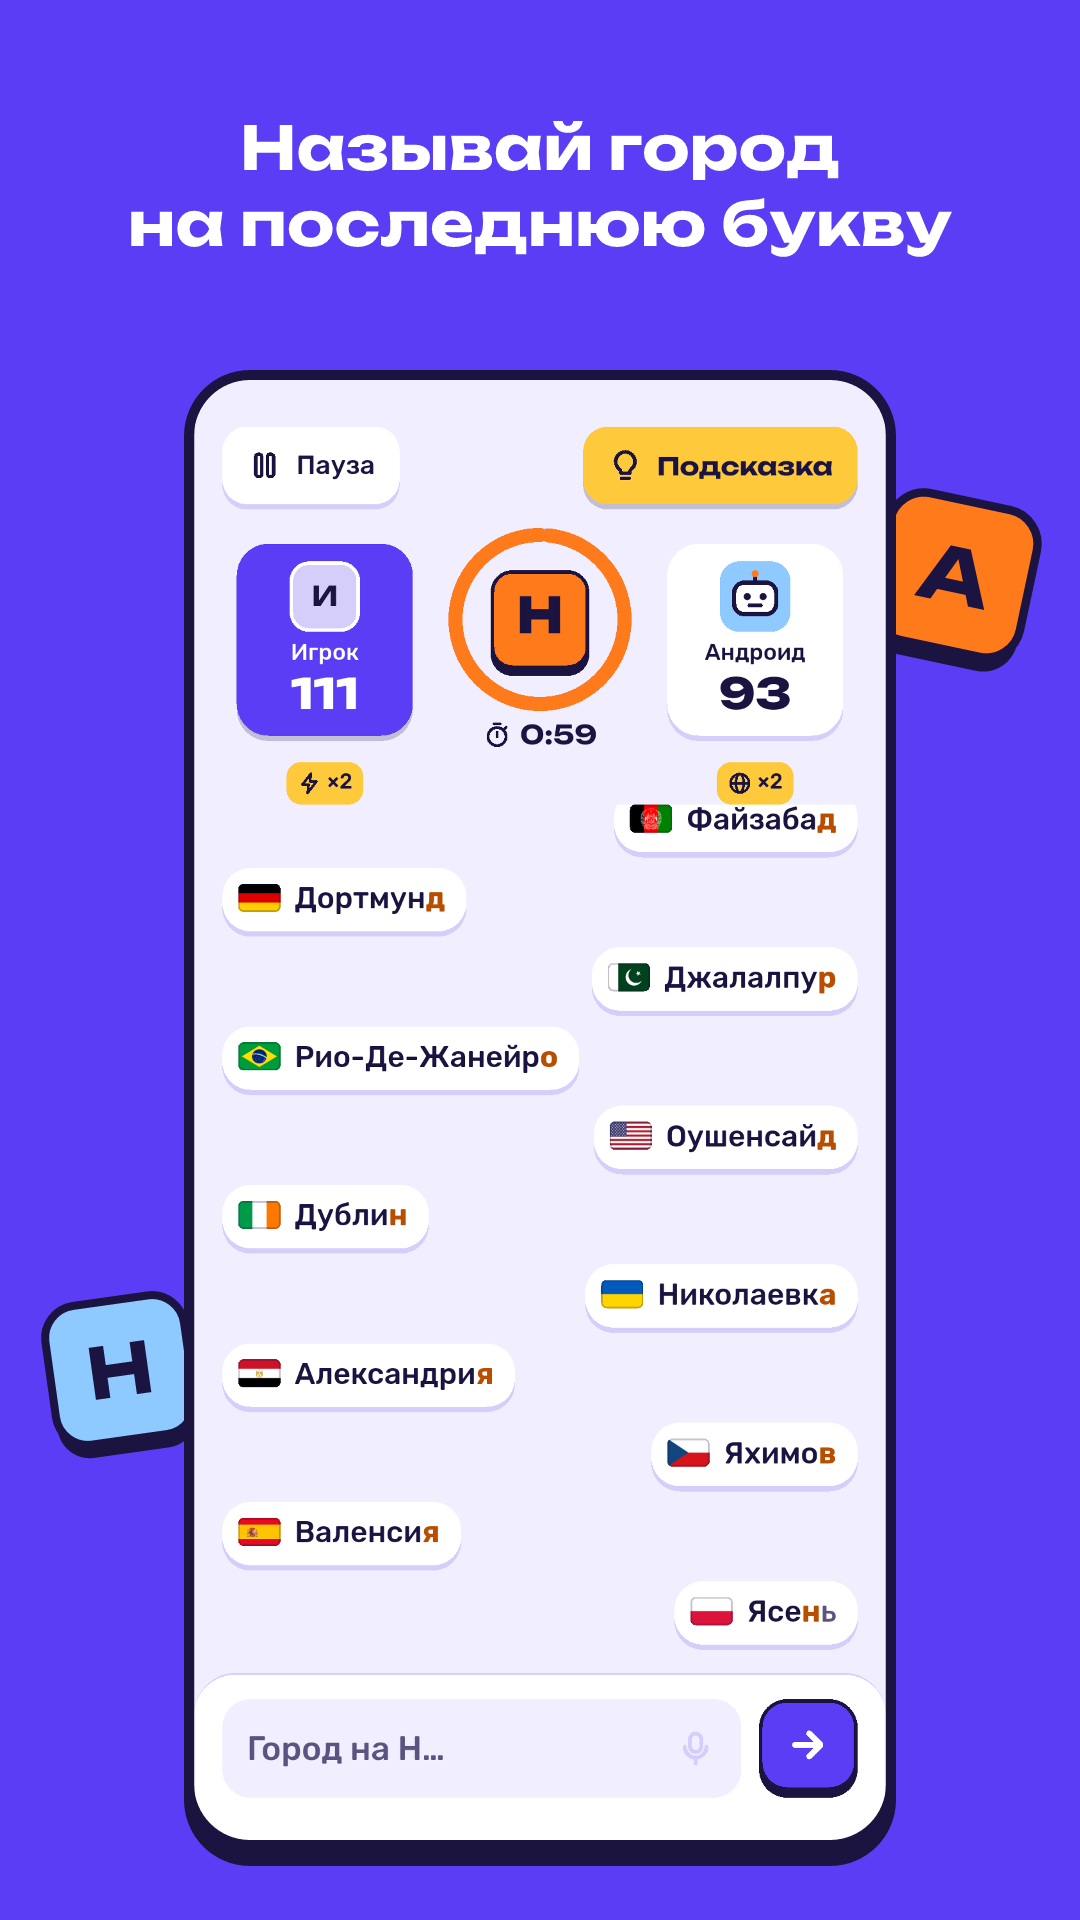
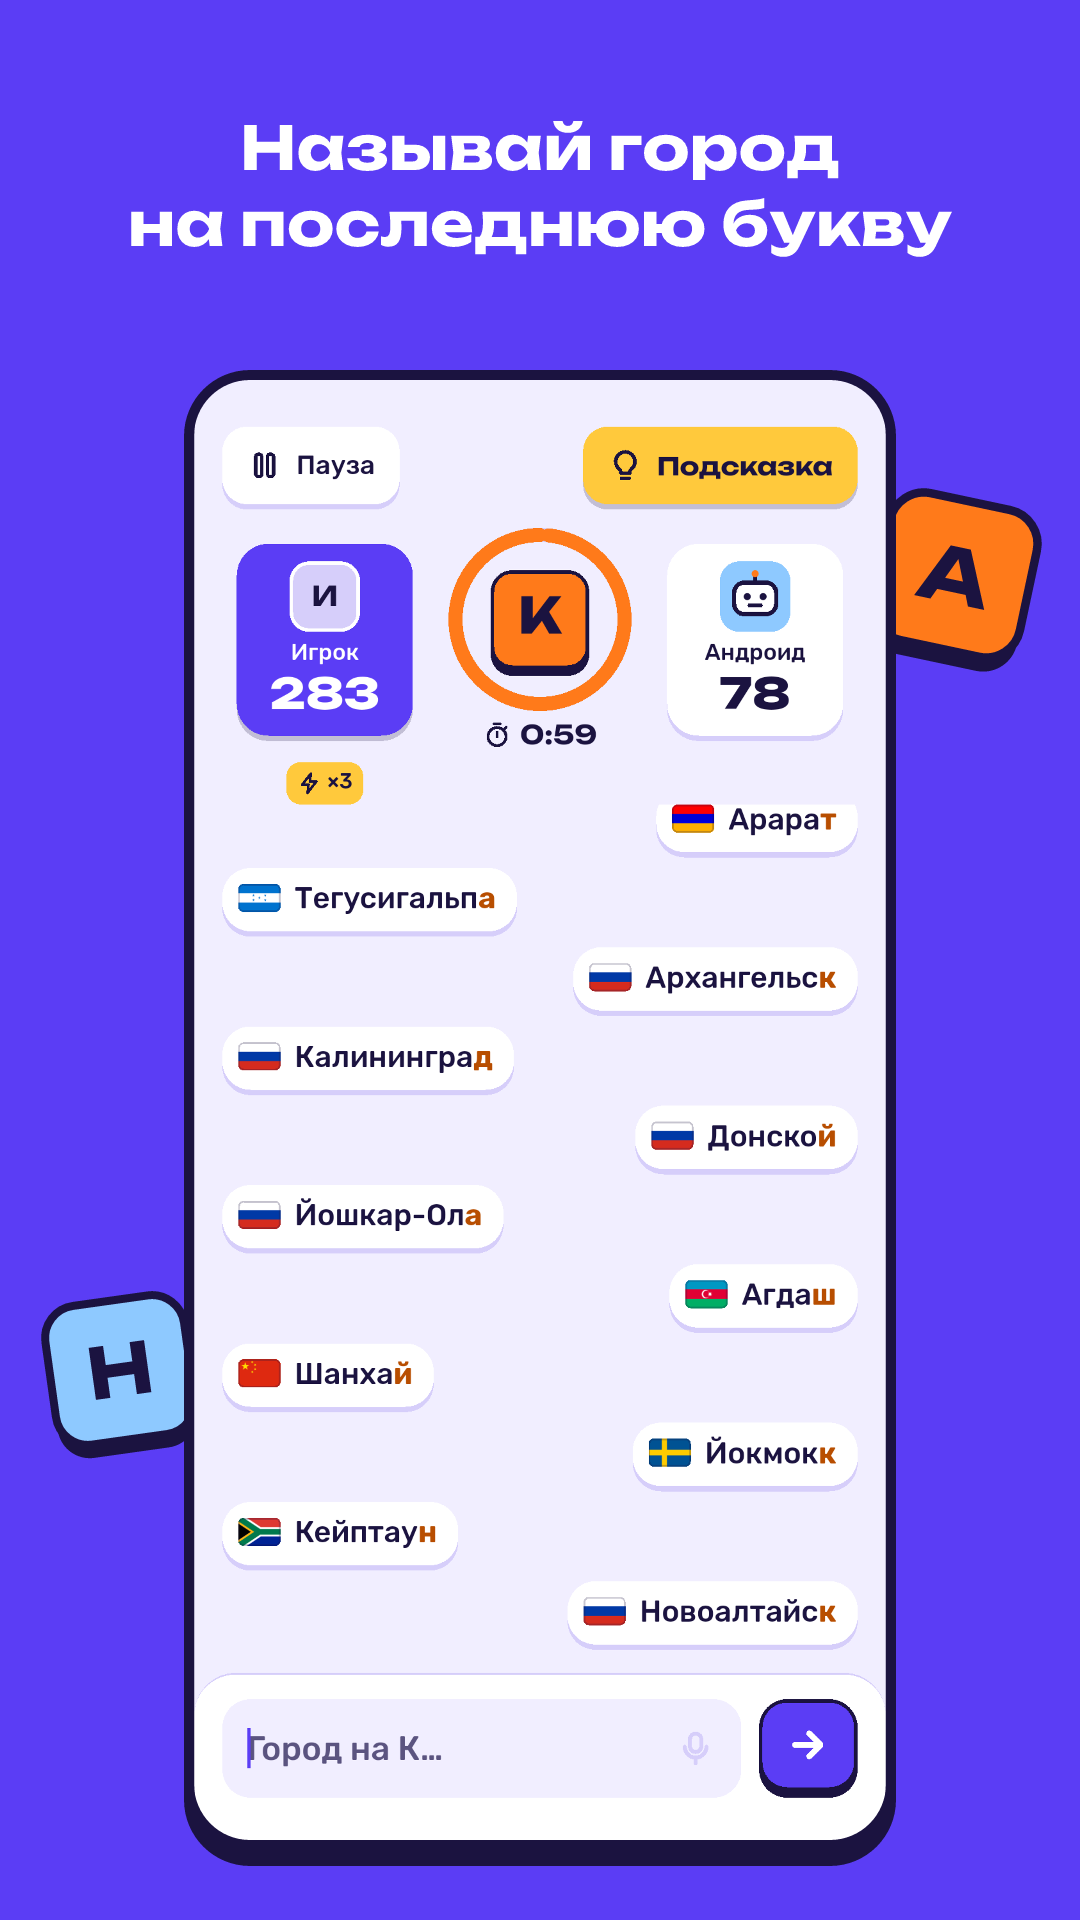
retake the store screens with a game Android gives up

diff --git a/integration_test/store_screenshots_test.dart b/integration_test/store_screenshots_test.dart
@@ -83,6 +83,141 @@ const _answers = {
   'Я': ['Ярославль', 'Якутск', 'Ялта'],
 };
 
+/// More cities for a long game, after [_answers]
+const _more = {
+  'А': [
+    'Ангарск',
+    'Арзамас',
+    'Армавир',
+    'Ачинск',
+    'Аахен',
+    'Абердин',
+    'Аделаида',
+    'Акапулько',
+    'Алеппо',
+    'Алушта',
+    'Ашхабад',
+    'Аугсбург',
+  ],
+  'Б': [
+    'Балашиха',
+    'Батуми',
+    'Бийск',
+    'Бобруйск',
+    'Бордо',
+    'Брюгге',
+    'Бристоль',
+    'Брюссель',
+    'Бостон',
+  ],
+  'В': [
+    'Вязьма',
+    'Великий Новгород',
+    'Волгоград',
+    'Вологда',
+    'Воркута',
+    'Вроцлав',
+    'Венеция',
+    'Верона',
+  ],
+  'Г': [
+    'Глазго',
+    'Гент',
+    'Гавана',
+    'Гатчина',
+    'Грозный',
+    'Гуанчжоу',
+    'Гётеборг',
+  ],
+  'Д': [
+    'Дербент',
+    'Дзержинск',
+    'Дакар',
+    'Дамаск',
+    'Дрезден',
+    'Дижон',
+    'Даллас',
+  ],
+  'Е': ['Ейск', 'Евпатория', 'Енисейск', 'Егорьевск'],
+  'Ж': ['Жезказган', 'Жодино', 'Железногорск'],
+  'З': ['Звенигород', 'Зальцбург', 'Зарайск', 'Зугдиди'],
+  'И': ['Ивантеевка', 'Иваново', 'Ирбит', 'Инсбрук', 'Исфахан', 'Ишим'],
+  'К': [
+    'Кисловодск',
+    'Коломна',
+    'Королёв',
+    'Курган',
+    'Кельн',
+    'Краков',
+    'Киото',
+    'Кишинёв',
+    'Кутаиси',
+    'Калгари',
+  ],
+  'Л': ['Лейпциг', 'Лион', 'Лилль', 'Лима', 'Лобня', 'Луга', 'Люберцы'],
+  'М': [
+    'Махачкала',
+    'Мытищи',
+    'Мюнхен',
+    'Майами',
+    'Мумбаи',
+    'Магнитогорск',
+    'Мичуринск',
+  ],
+  'Н': [
+    'Нижний Новгород',
+    'Нижнекамск',
+    'Набережные Челны',
+    'Нант',
+    'Ницца',
+    'Нагоя',
+    'Новороссийск',
+    'Ногинск',
+  ],
+  'О': ['Обнинск', 'Одинцово', 'Орск', 'Окленд', 'Осака', 'Оксфорд', 'Орлеан'],
+  'П': [
+    'Петрозаводск',
+    'Подольск',
+    'Пушкин',
+    'Пиза',
+    'Порту',
+    'Пхукет',
+    'Пусан',
+    'Палермо',
+  ],
+  'Р': ['Ростов-на-Дону', 'Реутов', 'Рубцовск', 'Реймс', 'Рованиеми'],
+  'С': [
+    'Саранск',
+    'Северодвинск',
+    'Серпухов',
+    'Сыктывкар',
+    'Севилья',
+    'Сидней',
+    'Сантьяго',
+    'Солсбери',
+  ],
+  'Т': [
+    'Тамбов',
+    'Тольятти',
+    'Тобольск',
+    'Тюмень',
+    'Тбилиси',
+    'Тулуза',
+    'Турин',
+    'Таллин',
+  ],
+  'У': ['Улан-Удэ', 'Ухта', 'Углич', 'Ужгород', 'Ухань'],
+  'Ф': ['Фрязино', 'Фрайбург'],
+  'Х': ['Химки', 'Ханты-Мансийск', 'Хошимин', 'Хиросима', 'Ханой'],
+  'Ц': ['Цивильск', 'Цетине'],
+  'Ч': ['Чехов', 'Черкесск', 'Чернигов', 'Ченнаи', 'Чанчунь'],
+  'Ш': ['Шадринск', 'Шатура', 'Шымкент', 'Шеффилд'],
+  'Щ': ['Щучинск', 'Щигры'],
+  'Э': ['Электросталь', 'Эссен', 'Эрфурт', 'Эйлат'],
+  'Ю': ['Южно-Сахалинск', 'Юрмала', 'Юхнов'],
+  'Я': ['Ялуторовск', 'Ярцево'],
+};
+
 /// Walks the app on a clean device and takes the screens for store listings.
 ///
 /// Run on an emulator without accounts:
@@ -145,8 +280,11 @@ void main() {
     final used = <String>{};
     var moves = 0;
     var city = 'Москва';
+    var gameShot = false;
 
-    for (var attempt = 0; attempt < 40 && moves < 8; attempt++) {
+    // Play until Android runs out of moves and gives up: on the easy level
+    // it makes 20 to 27 of them
+    for (var attempt = 0; attempt < 120; attempt++) {
       tester.widget<TextField>(find.byType(TextField).last).controller!.text =
           city;
       await wait(tester, 300);
@@ -154,35 +292,41 @@ void main() {
       await wait(tester, 3500);
       used.add(city);
 
+      if (find.text('Сыграть ещё').evaluate().isNotEmpty) break;
+
+      // An accepted city clears the input, a rejected one stays with an error
+      final accepted = tester
+          .widget<TextField>(find.byType(TextField).last)
+          .controller!
+          .text
+          .isEmpty;
+
+      if (accepted) moves++;
+
+      if (accepted && moves >= 9 && !gameShot) {
+        await shot('02_game');
+        gameShot = true;
+      }
+
       final next = letter();
       dump('move $attempt, letter $next');
 
       if (next == null) break;
 
-      final options = (_answers[next.toUpperCase()] ?? [])
-          .where((c) => !used.contains(c))
-          .toList();
+      // Cities already in the feed, Android's ones too
+      final shown = texts().toSet();
+      final options = [
+        ...?_answers[next.toUpperCase()],
+        ...?_more[next.toUpperCase()],
+      ].where((c) => !used.contains(c) && !shown.contains(c)).toList();
 
-      if (options.isEmpty) break;
-
-      if (!texts().any((t) => t.contains(city))) {
-        // Not accepted: try the next city on the same letter
-      } else {
-        moves++;
-      }
-
+      expect(options, isNotEmpty, reason: 'no city left on $next');
       city = options.first;
     }
 
-    await shot('02_game');
-
-    await tester.tap(find.text('Пауза'));
-    await wait(tester);
-    await tester.tap(find.text('Сдаться…'));
-    await wait(tester);
-    await tester.tap(find.text('Сдаться').last);
-    await wait(tester, 4000);
+    await wait(tester, 2000);
     dump('results');
+    expect(find.text('Победа!'), findsOneWidget);
     await shot('03_results');
 
     await tester.tap(find.text('В меню').last);
